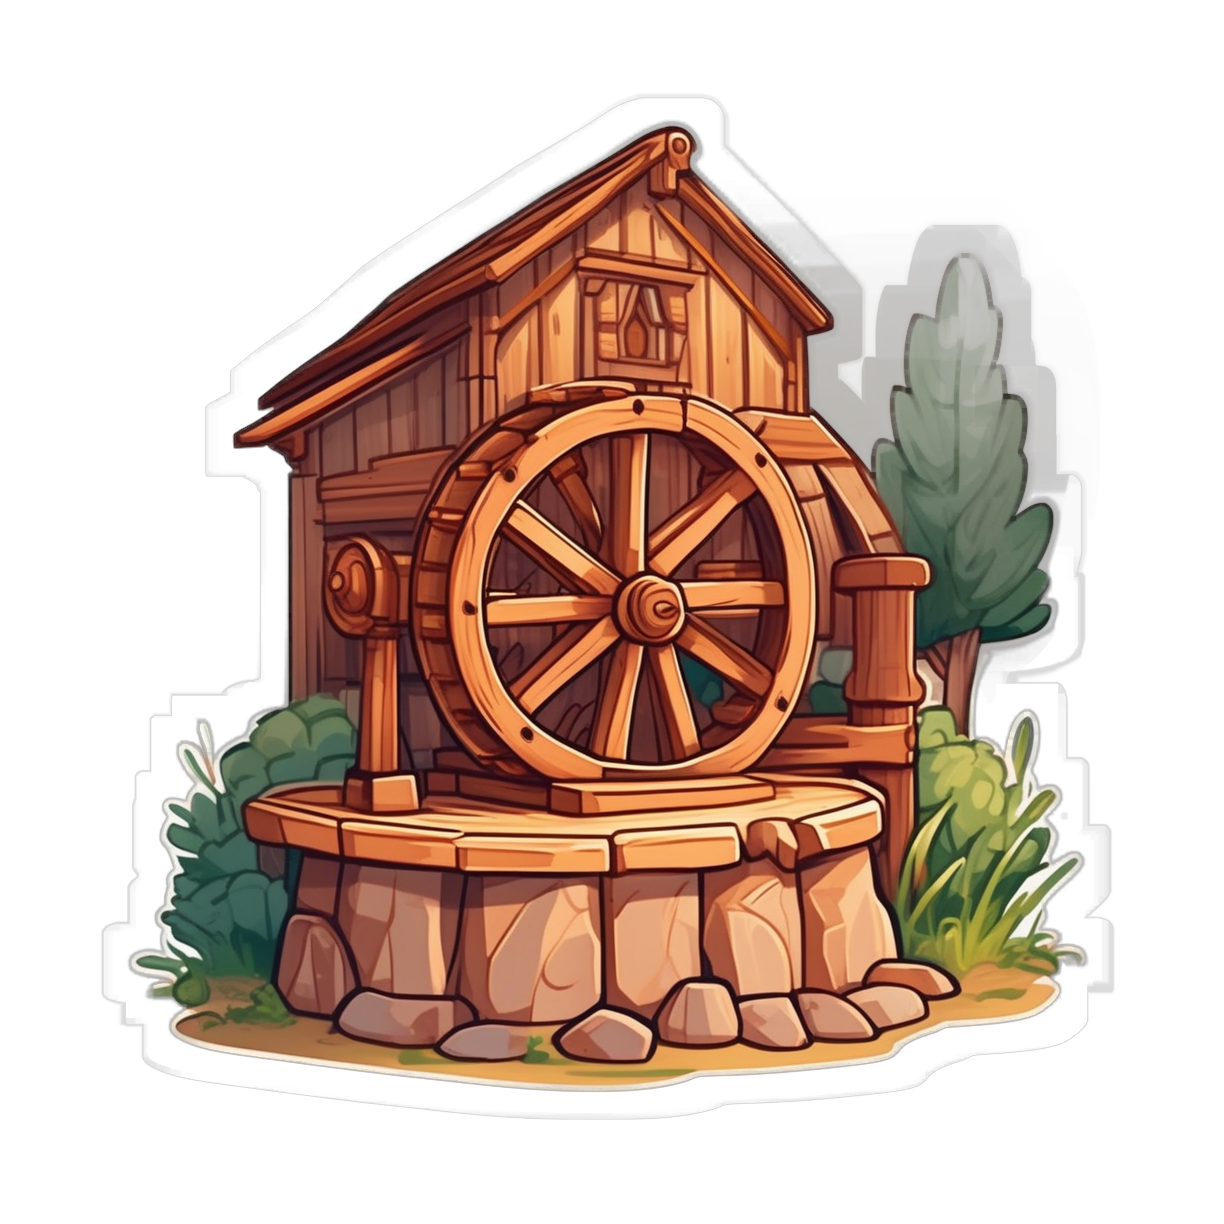
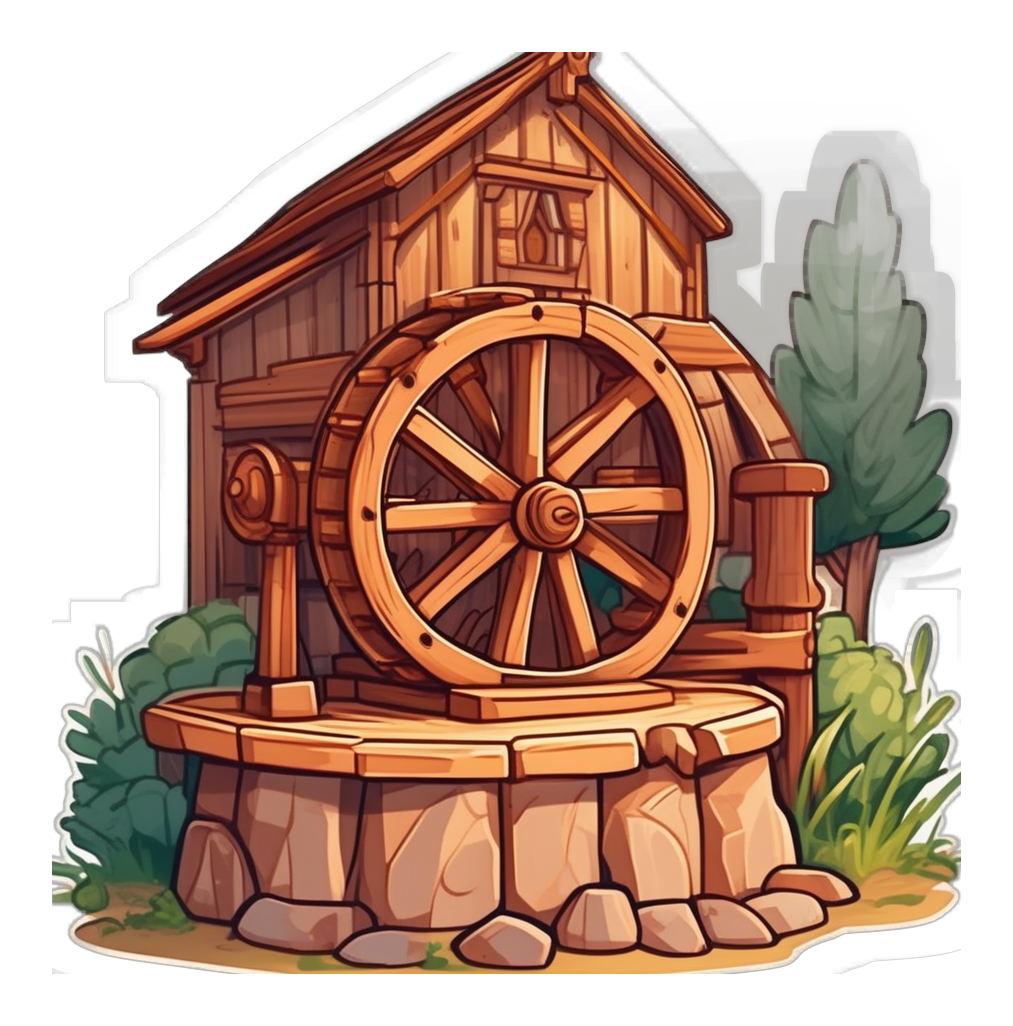
post: add rectangular white frame post-process + batch tool; wire into generate_card; batch-enforce on existing card PNGs; fix wheat field blur via edge snap

diff --git a/tools/art_post/enforce_rect_white.py b/tools/art_post/enforce_rect_white.py
@@ -1,0 +1,125 @@
+"""Enforce a clean rectangular white border around an image.
+
+Strips any irregular sticker/halo by cropping to the bounding box of
+"non‑white" pixels (difference-from-white above a tolerance), then places the
+cropped art onto a solid white canvas with a fixed rectangular frame.
+
+No alpha manipulation or thresholds on the subject itself, so no black edge
+artifacts in fine details.
+
+Result is saved fully opaque (RGB).
+
+Usage:
+  python tools/art_post/enforce_rect_white.py src.png [dst.png] --frame 48 --tol 18
+"""
+
+from __future__ import annotations
+
+from pathlib import Path
+from typing import Iterable
+import argparse
+
+from PIL import Image, ImageChops
+
+
+def enforce(
+    src: Path,
+    dst: Path | None,
+    frame: int = 48,
+    tol: int = 18,
+    inset: int = 0,
+) -> Path:
+    src = Path(src)
+    out = Path(dst) if dst else src
+    if out.parent:
+        out.parent.mkdir(parents=True, exist_ok=True)
+
+    img = Image.open(src).convert("RGBA")
+    # Flatten onto white so we can measure distance from white
+    rgb = Image.new("RGB", img.size, (255, 255, 255))
+    rgb.paste(img.convert("RGB"), mask=img.split()[-1])
+
+    # Compute a mask of pixels that are sufficiently "non-white"
+    diff = ImageChops.difference(rgb, Image.new("RGB", rgb.size, (255, 255, 255)))
+    # diff is higher where pixels are farther from white; threshold by tolerance
+    tol = max(0, min(255, int(tol)))
+    mask = diff.convert("L").point(lambda v: 255 if v > tol else 0)
+    bbox = mask.getbbox()
+    if bbox is None:
+        cropped_rgba = img
+    else:
+        cropped_rgba = img.crop(bbox)
+
+    # Optional additional inward crop to shave any near-edge imperfections
+    if inset > 0:
+        inset = int(inset)
+        cw0, ch0 = cropped_rgba.size
+        left = min(cw0 // 2 - 1, inset)
+        top = min(ch0 // 2 - 1, inset)
+        right = cw0 - left
+        bottom = ch0 - top
+        cropped_rgba = cropped_rgba.crop((left, top, right, bottom))
+
+    cw, ch = cropped_rgba.size
+    frame = max(0, int(frame))
+    canvas = Image.new("RGB", (cw + 2 * frame, ch + 2 * frame), (255, 255, 255))
+    canvas.paste(cropped_rgba.convert("RGB"), (frame, frame), mask=cropped_rgba.split()[-1])
+    return canvas, (frame, frame, frame + cw, frame + ch)
+    
+def _snap_border_whites(img: Image.Image, inner_box: tuple[int,int,int,int], snap: int, tol: int) -> Image.Image:
+    if snap <= 0:
+        return img
+    tol = max(0, min(255, tol))
+    w, h = img.size
+    white = (255, 255, 255)
+    x0, y0, x1, y1 = inner_box
+    snap = max(1, snap)
+    px = img.load()
+    def near_white(rgb):
+        r,g,b = rgb
+        return (abs(255-r)+abs(255-g)+abs(255-b))//3 <= tol
+    # Top strip
+    for y in range(max(0, y0 - snap), y0):
+        for x in range(x0, x1):
+            if near_white(px[x, y]):
+                px[x, y] = white
+    # Bottom strip
+    for y in range(y1, min(h, y1 + snap)):
+        for x in range(x0, x1):
+            if near_white(px[x, y]):
+                px[x, y] = white
+    # Left strip
+    for x in range(max(0, x0 - snap), x0):
+        for y in range(y0, y1):
+            if near_white(px[x, y]):
+                px[x, y] = white
+    # Right strip
+    for x in range(x1, min(w, x1 + snap)):
+        for y in range(y0, y1):
+            if near_white(px[x, y]):
+                px[x, y] = white
+    return img
+
+
+def main(argv: Iterable[str] | None = None) -> None:
+    p = argparse.ArgumentParser(description="Add a clean rectangular white border around an image")
+    p.add_argument("src")
+    p.add_argument("dst", nargs="?")
+    p.add_argument("--frame", type=int, default=48, help="Border thickness on each side in pixels")
+    p.add_argument("--tol", type=int, default=18, help="Tolerance (0-255) for distance from white when finding the inner crop bbox")
+    p.add_argument("--inset", type=int, default=0, help="Additional inward crop in pixels to shave any near-edge imperfections")
+    p.add_argument("--snap", type=int, default=0, help="Width (px) inside the inner edge to snap near-white pixels to pure white")
+    p.add_argument("--snap-tol", type=int, default=40, help="Near-white tolerance for snapping (0-255)")
+    args = p.parse_args(list(argv) if argv is not None else None)
+
+    out_path = Path(args.dst) if args.dst else None
+    canvas, inner = enforce(Path(args.src), out_path, frame=args.frame, tol=args.tol, inset=args.inset)
+    canvas = _snap_border_whites(canvas, inner, args.snap, args.snap_tol)
+    target = Path(args.dst) if args.dst else Path(args.src)
+    if target.parent:
+        target.parent.mkdir(parents=True, exist_ok=True)
+    canvas.save(target, format="PNG")
+
+
+if __name__ == "__main__":
+    main()

diff --git a/tools/art_post/fix_clipped_sticker.py b/tools/art_post/fix_clipped_sticker.py
@@ -1,0 +1,117 @@
+"""Repair clipped sticker borders by adding padding and reconstructing the
+outer white edge into the new margin.
+
+This utility is conservative: it keeps the original pixels untouched and only
+paints into the newly-added padding area where the original alpha touched the
+canvas edge. It works well when a white sticker border was cropped by the
+original canvas bounds.
+
+Usage:
+    python tools/art_post/fix_clipped_sticker.py <src.png> [dst.png]
+
+Options:
+    --pad N       : transparent padding to add on all sides (default 32)
+    --grow N      : how far to extend the silhouette into padding (default 24)
+    --color R,G,B : fill color for the reconstructed edge (default 255,255,255)
+"""
+
+from __future__ import annotations
+
+import argparse
+from pathlib import Path
+from typing import Iterable, Tuple
+
+from PIL import Image, ImageChops, ImageFilter, ImageOps
+
+
+def _ensure_rgba(img: Image.Image) -> Image.Image:
+    return img if img.mode == "RGBA" else img.convert("RGBA")
+
+
+def _parse_rgb(value: str) -> Tuple[int, int, int]:
+    parts = [int(v) for v in value.split(",")]
+    if len(parts) != 3 or any(p < 0 or p > 255 for p in parts):
+        raise argparse.ArgumentTypeError("--color must be 'R,G,B' (0-255)")
+    return tuple(parts)  # type: ignore[return-value]
+
+
+def repair(src: Path, dst: Path | None, pad: int, grow: int, color: Tuple[int, int, int]) -> Path:
+    src = Path(src)
+    out = Path(dst) if dst else src
+    if out.parent:
+        out.parent.mkdir(parents=True, exist_ok=True)
+
+    base = _ensure_rgba(Image.open(src))
+    w, h = base.size
+
+    # Add transparent padding around the original content
+    padded = ImageOps.expand(base, border=pad, fill=(0, 0, 0, 0))
+    pw, ph = padded.size
+
+    # Build masks on the padded image
+    alpha = padded.getchannel("A")
+
+    # Detect whether original content touched any edge of the original canvas
+    touches = {
+        "top": any(alpha.getpixel((x, pad)) > 0 for x in range(pad, pad + w)),
+        "bottom": any(alpha.getpixel((x, pad + h - 1)) > 0 for x in range(pad, pad + w)),
+        "left": any(alpha.getpixel((pad, y)) > 0 for y in range(pad, pad + h)),
+        "right": any(alpha.getpixel((pad + w - 1, y)) > 0 for y in range(pad, pad + h)),
+    }
+
+    # If nothing touched an edge, just save with padding and exit
+    if not any(touches.values()):
+        padded.save(out, format="PNG")
+        return out
+
+    # Grow the alpha outward
+    grow = max(1, grow)
+    k = max(3, grow * 2 + 1)
+    expanded = alpha.filter(ImageFilter.MaxFilter(k))
+    ring = ImageChops.subtract(expanded, alpha)
+
+    # Constrain the ring to only the outside area beyond the original bounds
+    outside = Image.new("L", (pw, ph), 0)
+    if touches["top"]:
+        for y in range(0, pad):
+            outside.paste(255, box=(0, y, pw, y + 1))
+    if touches["bottom"]:
+        for y in range(pad + h, ph):
+            outside.paste(255, box=(0, y, pw, y + 1))
+    if touches["left"]:
+        for x in range(0, pad):
+            outside.paste(255, box=(x, 0, x + 1, ph))
+    if touches["right"]:
+        for x in range(pad + w, pw):
+            outside.paste(255, box=(x, 0, x + 1, ph))
+
+    ring_outside = ImageChops.multiply(ring, outside)
+
+    # Paint the reconstructed edge as solid white (or chosen color)
+    layer = Image.new("RGBA", (pw, ph), color + (255,))
+    layer.putalpha(ring_outside)
+
+    # Composite: reconstructed edge below the original pixels
+    base_bg = Image.new("RGBA", (pw, ph), (0, 0, 0, 0))
+    comp = Image.alpha_composite(base_bg, layer)
+    comp = Image.alpha_composite(comp, padded)
+
+    comp.save(out, format="PNG")
+    return out
+
+
+def main(argv: Iterable[str] | None = None) -> None:
+    p = argparse.ArgumentParser(description="Repair clipped sticker borders by padding and reconstructing edges")
+    p.add_argument("src", help="Input PNG path")
+    p.add_argument("dst", nargs="?", help="Output path (defaults to overwrite src)")
+    p.add_argument("--pad", type=int, default=32, help="Transparent padding to add on all sides")
+    p.add_argument("--grow", type=int, default=24, help="How far to grow the silhouette into padding")
+    p.add_argument("--color", type=_parse_rgb, default=(255, 255, 255), help="Reconstruction color 'R,G,B'")
+    args = p.parse_args(list(argv) if argv is not None else None)
+
+    repair(Path(args.src), Path(args.dst) if args.dst else None, pad=max(0, args.pad), grow=max(1, args.grow), color=args.color)
+
+
+if __name__ == "__main__":
+    main()
+

diff --git a/tools/art_post/batch_enforce_rect.py b/tools/art_post/batch_enforce_rect.py
@@ -1,0 +1,46 @@
+from __future__ import annotations
+
+import argparse
+from pathlib import Path
+from typing import Iterable
+import sys
+
+try:
+    # When executed as a module
+    from .enforce_rect_white import enforce, _snap_border_whites
+except Exception:
+    # When executed as a script
+    from pathlib import Path as _P
+    _here = _P(__file__).resolve().parent
+    sys.path.insert(0, str(_here))
+    from enforce_rect_white import enforce, _snap_border_whites  # type: ignore
+
+
+def iter_pngs(root: Path) -> Iterable[Path]:
+    if root.is_file() and root.suffix.lower() == ".png":
+        yield root
+        return
+    for p in root.rglob("*.png"):
+        if p.is_file():
+            yield p
+
+
+def main(argv: Iterable[str] | None = None) -> None:
+    ap = argparse.ArgumentParser(description="Batch enforce rectangular white frames on PNGs")
+    ap.add_argument("paths", nargs="+", help="Files or directories of PNGs")
+    ap.add_argument("--frame", type=int, default=48)
+    ap.add_argument("--tol", type=int, default=18)
+    ap.add_argument("--inset", type=int, default=0)
+    ap.add_argument("--snap", type=int, default=10)
+    ap.add_argument("--snap-tol", type=int, default=40)
+    args = ap.parse_args(list(argv) if argv is not None else None)
+
+    for s in args.paths:
+        for p in iter_pngs(Path(s)):
+            canvas, inner = enforce(p, None, frame=args.frame, tol=args.tol, inset=args.inset)
+            canvas = _snap_border_whites(canvas, inner, args.snap, args.snap_tol)
+            canvas.save(p)
+
+
+if __name__ == "__main__":
+    main()

diff --git a/scripts/generate_card.py b/scripts/generate_card.py
@@ -17,6 +17,7 @@ if str(ROOT) not in sys.path:
     sys.path.append(str(ROOT))
 
 from tools.art_post.stroke_and_bleed import apply_stroke_and_bleed
+from tools.art_post.enforce_rect_white import enforce as enforce_rect_white, _snap_border_whites
 
 # Silence noisy tokenizer warnings; we hard-trim to budget ourselves
 hf_logging.set_verbosity_error()
@@ -399,11 +400,17 @@ def run_generation(
         if output_path_override is not None
         else os.path.join("assets", "art", "cards", f"{cid}.png")
     )
+    # Enforce clean rectangular white border as final step (opaque RGB)
+    canvas, inner = enforce_rect_white(Path(final_pad_path), None, frame=52, tol=60, inset=12)
+    canvas = _snap_border_whites(canvas, inner, snap=12, tol=60)
     if add_frame:
+        # Optional subtle frame on top of the rectangular white border for previews
+        tmp_rect = os.path.join("temp", f"{cid}_rect.png")
+        canvas.save(tmp_rect)
         from frame_card import frame_card
-        frame_card(final_pad_path, final_path)
+        frame_card(tmp_rect, final_path)
     else:
-        os.replace(final_pad_path, final_path)
+        canvas.save(final_path)
 
     # Per-card meta
     card_meta = {
